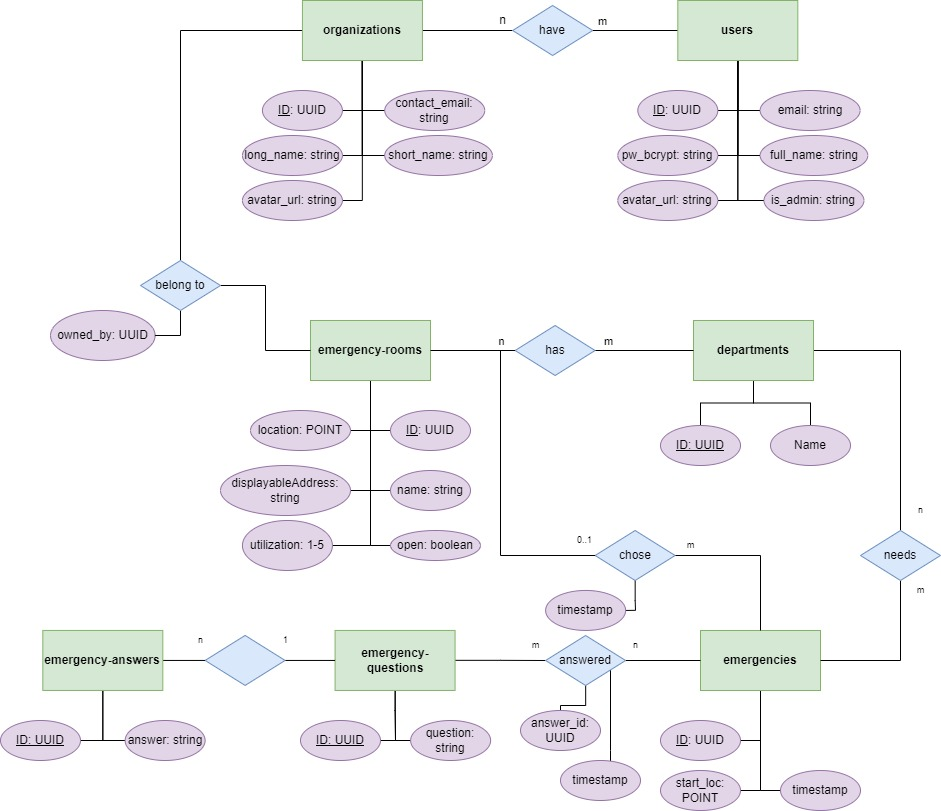
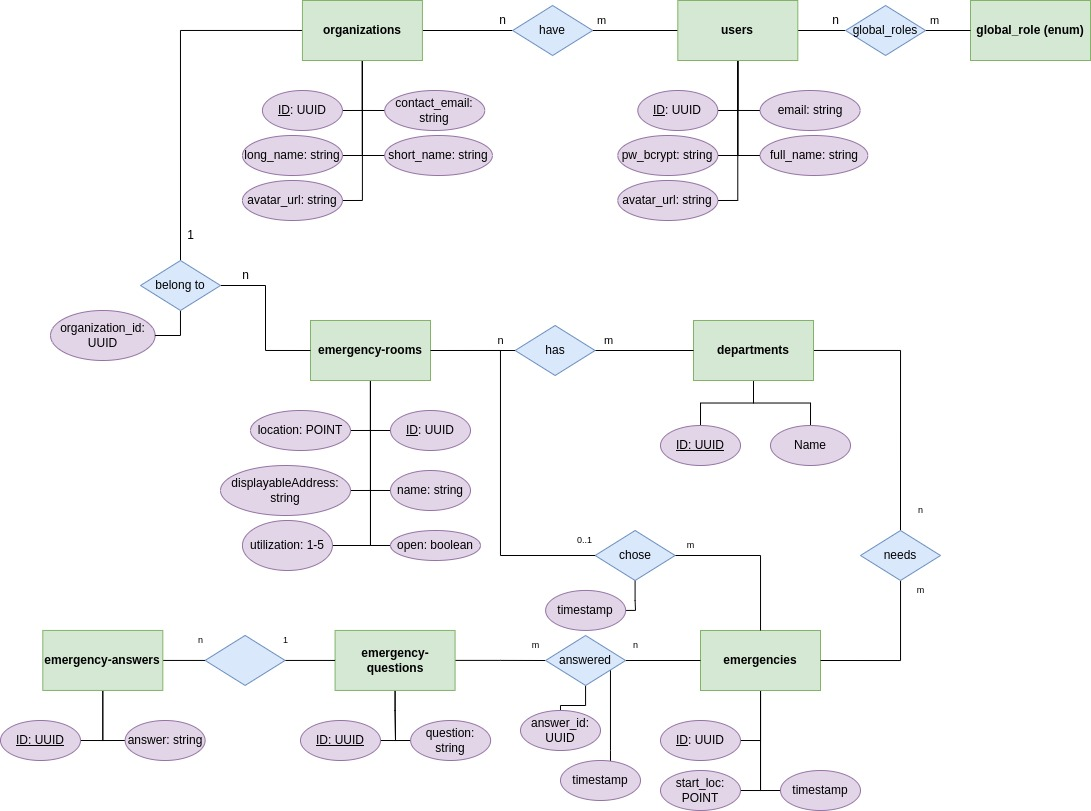
feat: add roles relation

diff --git a/rest-api/Entity Relationship Diagram.md b/rest-api/Entity Relationship Diagram.md
@@ -4,4 +4,4 @@
 
 Version: 16.10.2022
 
-[url]: https://viewer.diagrams.net/?tags=%7B%7D&highlight=0000ff&edit=_blank&layers=1&nav=1#R7V1bl6K4Fv41PuoiNy6P1VU9c3pOdU%2Bv1dMzp59qoaSUOUgcwLLsXz%2BhAAUSS7xAglovJQFBvm9nZ9%2BSDND9%2FPXXyF3MPjOPBgNoeK8D9DCAEBoA8n9pyzprARbBWcs08r28bdvwzf9J80Yjb136Ho0rFyaMBYm%2FqDZOWBjSSVJpc6OIraqXPbOg%2BtSFO6VCw7eJG4itf%2FleMstabWht2%2F9D%2FemseDIwnezM3C0uzt8knrkeW5Wa0McBuo8YS7JP89d7GqToFbhk3%2Ftlx9nND4tomDT5wv2f3%2Bhv7p%2B%2B93n%2B8gf4%2BXj3D%2FnvEOW%2FLVkXL0w9%2Fv75IYuSGZuy0A0%2Bbls%2FRGwZejS9q8GPttc8MrbgjYA3%2Fk2TZJ2T6S4TxptmyTzIz9LQu0up4YchC2nW8osfBPkt%2BQtF6%2F%2BVD36kByNSHD68lk8%2BrPMjEZEcpJgtowl9B4ZCstxoSpN3rsulOcWo9IAc718pm1P%2Be%2FgFEQ3cxH%2BpypCbi%2BJ0c92WLf4hJ%2BwA8oga8nJywGHk7CO9ffKwVuRZN%2FIOIc%2FUijwAlLJ3oF5Uz14xmutCH7zRdwh9jl7s5brgxQ2W%2BaNCKZ%2BP7piboxUO3MCfhvzzhGNFI97wQqPE5%2BbeXX5i7nteRjeN%2FZ%2Fu%2BO1%2BKcoL5ofJ26uQDwPyIMX9XWFLn0RfZUZr%2FpSKXVjBNf%2BWMYLAzrnI7en83o2Bz%2B%2F9NX2Z7Y2BXbnp0K7egD0%2Fx1w%2B6rxtfuDxVEK7Tx3xmYVJflNHi35ZeCHdd0x8v%2F549%2FK4%2Bvr76od19%2BHL5PP6y1DtoNiKSVNDtmU6nRPZe%2Fsqfyt3XbogV1zvdH6j0vsJIjVJyO541o4PBBU%2BgGbAwfkw5h%2Bm6Qc6pxyvcLIech95Hhfn%2BeM2lwjyVpWm1cxP6LeF%2B0bOKnIXVcl55mTfs4BFb99FHqG2h3l7nETs%2F7R0xoZjZJrv9WhBt%2B%2FU4QBW0UaFabTaRhc218xKkQXTaGk4hQIVoTvnn%2B7eoI38cCp26yDwFzE9GGIKOMiWDGLHtJB7JoihUYUYmyLEtgRh3BbCWEA4YBPeo1mYofz1909f%2FugZyGYNY0MixkaXIItGoefHi8Bdp9bVnedxey7usVCjGt6EiHgjCd6kNbyVjPadmWB2wzHb1MuzNZUEdPVjRa9Arak22Fcyhn9UbGHFbk5jNvUK%2Ftn7bVePcjySOX0zvC%2FCbiUG0sxuBVrmro7vDU7D3mBr1RmAJfSGuZQXTYJxaIfgHxyMGxoj0ywU%2B4nxt8JDKOJvoNZn2gvAOQJ7MzcW1dOMzcfL%2BHDV5FL7eSJTTebEpuPnM5nGEI%2BKAX%2BjnUTzWObytWYdFwxKBollMQp8eiiNDZvWzEf5%2Fv3Tg9iNtPZQBLdb4hJ26nZDUTWxBc197jFjAXUleYNeYUygiLEjwRi1hrGoQJaJH3BlvQ1vAFmhgtYwEzBykLH9A1XQJaaPDPTWlAs21Vg%2BxwXaO3MnUFN%2FAumVz8Rqk2C9pxMjregEhiLHRPOkZmM%2BgaFX9AY1cPiLZJVPL8bhB1VTw5SYGt06%2FEi0NS7dpsZWlQRLYnp0alNbUIVuO1BHdV8%2FjJum%2BC1wbtUmjygg5IwcgAGwTC5DxKlasKbBzzq2DRGBDi4KlIq7Zy%2BR3%2FD8IQerV2XLnQ2PzUXo7HXMR5WNQINUVZNRm36w73pk1KSrhTKTwi27mWLHyRomlyFrOspmQUKzGqh%2FljROQyqXYl4CjEfEcrZ%2F1RJUE%2FARCis2OAvHssRQzLtM8hSwSX8rdwSbUnl5FBFgLqS9xwU7abl2YVnpYr0XTJeQ%2FpLW%2BvULWVIrWMUNkz3twQp3avKyY1pyQiUuar84qCsR9Rzcgqjvlc7sj4mfvazgKEvPqkedSAeWmCmZUESp17c8uFnrk7LkYKdJcFMM2Im1IfzlkkFrZSFpl42zjgYE%2FPO%2BViaraKr2zzOQY4Gqi0EskRxZ%2FS5sLZIn2gJiNvxKycGOanIuu4zXahp%2FOP%2BodBItjpI6Xv1ocfRaSgEUBRrXzstmxo1iKw7XJrlZ%2BP34257r27H6ClRLA6AbxisacZnol%2BGHCKmHGkyouADSEie9XbpPDGq%2Bi%2FJwT%2FGwW%2FajCgtsqE5tvQqL7F7Nr9eQTr2sFgfeeucpdBY1DZrQWfzuZum8zNK4lGTeEGBrVER7dMrg2WIGL0O%2Bx4mloUlGqJotVW9pXJ%2B1NwSOZuaec9lBI6epF4z1Ghgc0c8UVbzW%2FiVI59eVpsPUqmVMiGWavlN30xEVUKbon9Kv9bT6F9UW%2FbBUz6hzxEqNq80ZDOudQHHKwBGTmKK%2FeCXc1ApEdpii3dIjTiK52lxoXa%2FJgpXdkiMmqq9Wr2HdyNkkNUrsJP6cxok7X%2FRtRK%2FXXhLFI%2Fpmrt0FgEvqDpnqwlZgKJnq0t0ytUY%2BqPYtjw%2BM2wz60whtZxrboXlmVMu4EVxZunbv9aiLPPMmLXgTtmOFzTj7gg3HlTXgWg2fs6es4cTrTaML8TTE0MlkxmJxVoDeQSpsCKtAKS%2BABYa4BJExGl2tX44svJcg3K1vcXPLtz3IlvQg5c6f6Jr31T%2BRlGkRSxqZastLke7aIDqAbBVS72m8Vhk4lyzQKID%2FTm4uXf6gPLvUrNp90tXK8YjY7QwOUtwvcAOwQ3fLkOIisQql1xG5CHSz1Umv9q3RkDxTJXmKd2%2Frf9fLPFpl9MFb5zuJPkcpe%2FjW%2BU7rfEglfcWCr9dG315asq3sTg1JiTEh2xqZdsmSrXrQdccrk7JzrN0lfUmkdu2u%2Fqvek6XkpM6L1UaiD9yHREP6kFr6BnVPXagwZ9HUDfPVtzWqLj%2FJmwcgXY67ovaGXe4%2Bstv77NtapCfRYAks2N3l13c7kdXEBQsTd5I80bnrB2pr%2FE8TeQeP%2BB23f2Qf8K1ttrfbg6gujDbjI8OT%2Bp0j24QdSKLhwNjOfOkEesnOIgELp32HngjaRY52l1IOJLOHXlxuJDwtoz5rFwnWktVoOsa6V6sCH2ma7rVDCxNmvx%2FRnPSOwjpqK6q68QzPyB%2FUjb9rSEedkT%2BsG3%2FXkJE6I39IN%2F6uIa56Rv6IZvxBxVv8ahsZbU6p0pwwFN0qIbi2jLVasuEkHyDNKyBQmtNbrZBRH2Db1FddT4QN45STCg%2BqQ2yFnVpioe%2BxNWI6IxOUgjz7AO%2FWEYZi0OF5GQS9j%2B%2B8i7oWkTUo5lcWq6fxJFovkh4jj6GgVdSH1qCYP7mI0JoMbOWxNSgmSvz4yfXmvuINNk7TKBYaYbJrAxkNUBenFszcFwXTak5CGUE4qq2OPRSVR1uzauRJeFFPi3M2Ut%2Fl0R3TYNDaxI2d6E5YGNJJkn95sCnSOUCNAGPkQHPzh6pVP6A1aCU7IQjQajkd5gyiDh1rZOCd2T%2BJ2Mumwpxjq3V59YfaqmV9IwzNNxaW099R8Q5UQ1%2FDrVIPDAC2TN%2FuiUqq6JNsAs0HF5ZaTQYHvV%2BD%2BrAYm4sq0obLkBwxpPPDiLGkXIbKMZh9Zl46NH%2F8Fw%3D%3D
+[url]: https://viewer.diagrams.net/?tags=%7B%7D&highlight=0000ff&edit=_blank&layers=1&nav=1#R7V1bc6M4Fv41qdp9MIUu3B7TSc9sz6YzXZWZ3u2nFDGKzS5GHsBJ3L9%2BRIxsQLKNY0DCdl5iZMzl%2B46Ozk3SFbqZvf2a%2BPPpVxqQ6AqawdsVur2CEDi2x%2F7lLcuixUZg1TJJwqBo2zQ8hD9J0WgWrYswIGnlxIzSKAvn1cYxjWMyziptfpLQ1%2BppzzSq3nXuT4jQ8DD2I7H1P2GQTVetLnQ27f8i4WTK7wz4G898fnLxJunUD%2BhrqQl9vkI3CaXZ6tPs7YZEOXocl9Xvftny7frBEhJnTX5w8%2F2B%2FOZ%2FD4Ovs5c%2FwM%2B767%2Bsf49Q8WzZkr8wCdj7F4c0yaZ0QmM%2F%2Brxp%2FZTQRRyQ%2FKomO9qcc0fpnDUC1vg%2FkmXLgkx%2FkVHWNM1mUfEtiYPrnBp2GNOYrFp%2BCaOouCR7oWT53%2FLBj%2FzAsPjh7Vv5y9tlcSQiUoCU0kUyJjtg4JLlJxOS7TgPrs7LMSrdoMD7V0JnhD0POyEhkZ%2BFL1UZ8gtRnKzP27DFPhSEHUCepYa8ghxwGDn7SO%2BePKwVec6FvEPIs7UiDwCl7B2oF9Wzx0dzXeiDF%2FoOoc%2FTi71CF7z40aK4VSzl885%2FYuZohQM%2FCicx%2BzxmWJGENbyQJAuZuXddfDELg2BFN0nDn%2F7T%2B%2FVylOc0jLP3V7E%2BXVm3Utx3Clt%2BJ%2FJWgaYwWou7VOzCCq7Fr0wDArfgorCni2s3Br649rf8ZTYXBm7loiO3egH6%2FJwy%2Bajztn7Aj1MJ3SF1xGcaZ8VFPS36JfdC%2Bu%2BY%2BGb5%2Bfrl7vXb768%2FnOtP9%2BOvy%2FuR2kFxcCYNbF2tvv%2BUvZW%2FLJ1QKK4dnd%2Bs9H4LWTVJWF2x1Y4PBBV%2BBe2IofXpiX2Y5B%2FIjDAA4%2FFyxHzkWcq%2FZ7dbnyLIW1WaXqdhRh7m%2Fjtbr4k%2Fr0rOMyP7hkY0ef8tCiziBpi1p1lC%2F09K37jwCdn2LpkQdPtWHQ5gFW3ETaPXTXRhfc60FFmwzY6GUyhQEfsz9un6HdokjCdit46icJ6SgyEmgIHsyCD2bAf5LUEMzSrE2BYhdiUI464QxgLCER2zHk3jFcrffv9y%2F8fAQLZrGJsSMTb7BFk0CoMwnUf%2BMreuroOA2XPpgIUa1fC2LBFvJMHb6gxvJaN9byaY23AQt%2FXybG0lAV39WNErUGurDfaVjOEfFVtYsZvTmE29gn%2Fufts1IAyPbEbeDe%2BTsFstE2lmtwItc1cf7w1ew97gatUZgCP0hpmUF02CcWiL4B8cjBuZhm1zxX5k%2FI17CDz%2BBmp9prsAnCewN%2FVTUT1N6expkR6umnziPo9lqskeu%2BTpuSXTGGKDD%2Fhr7SSaxzKXrzPrmDMoGSQWfBT4clsaG9atKx%2Flzz%2B%2F3IrdSGsPRXC7JS5hr243FFUTnZPC536iNCK%2BJG8wKIwtKGLsSTBGnWEsKpBFFkZMWW%2FCG0BWqKA1zBYwPGRu%2FkAVdInpIwO9M%2BWCbTWWz8cC7b25E6ipP4H0ymditUmwwdOJkVZ0AlORY6J5UrMxn8DUK3qDGjj8PFkVkpNx%2BEHV1LAlpka%2FDj8SbY1Tt6mxUyXBkZgevdrUDlSh2w7UUf3XD%2BOmOX8HtK3a5BEFhDzDAxgAx2YyZHlVC9Y22bee60JkQQ%2FzAiV%2B9dVLFBdsP%2BTgDKpsubfhsbkItV7H%2FKGyEWhaVdVk1qYf7DsfmTXp6qDMhLtlF1PsY7KGrdOQNR1lk5PQrAbqrwVJ85DKqZiXAGPDcrzNX7UE1QZshMKKDU7uWJYYSlmXyR4jOh5u5Y5gUyovj7IEmLm0D7hgJy%2FX5paVLtY7Z7qE9H1e6zcsZK1awSpumOzpDla4VZOXHdOSEypxUYfFQV2JqOfgEkTdVTqzPybeelnBhyw9px51snqwxGzJhCJCgqHlwe1an5QlB3tNgttiwE6sDWEvl111VhaSd9l01dGAgH%2FR18pk8aZq%2F2yBHAdUXQzLEcmR1e%2FCziJ5oi0gZsPPlBzsqSbntMt4nabxh%2FZHpaNo8ZTU8epHi6fXUgqAF2icOy%2FrGTeKrThcm%2BTm4N3xtz3nd2P1cVRLA6Afp68kYTIxLMMPWVY91GBDxQWQjjjp7dR9YlDzXZSHe%2FjNLtmPKiywoTp19Soscgc1v15DOvWyWjx46Z3H0MlrGjShkz93s3TeytI4lWTeCGDH4NEenTJ4rpjBWyE%2F4MTSyLYMVM2Wqrc0zs%2FaGwFPM3PPO%2B2gkdfUC8Z6DQye6GeKKl5r%2FxLk8%2BtK02Fq1TI2xDJN36u76YkKaKXoH%2FOfDbT6F9UW%2FXBUz6jzxEqNs80ZjOqdQHHKwBOTmKK%2FeCbc1ApEtpii%2FdIjTiI521xoXa%2FJgpX9kiMmqs9Wr2HdyFknNUrsZOGMpJk%2Fmw9tRK%2FXXlqKR%2FT1XLsTANeqO2SqC1uBqWSqS3%2FL1JrFoDq0PD4wLzPojyO0m2lsh%2BaZUS3jZuHK0rV7z0d95JnXacGLsH1U2Ew9VkrGuFbD5%2B0pazjyfNvsQzxNMXQyntJUnBWgd5AKm8IqUMoLYIEpLkFkGsbZ%2BuXIwXsJwv36Fhe3fNODXEkPUu78ia75UP0TSZmW5UgjU115KdJdG0QHkCYTPy6W8Bpy%2FHwE8lUQypNM7ar5J120HBuW280YIYX%2F%2FPYBk8IgsQWl57U%2BIf0o8ga1fY168pSt4yzfrmZQ9XTq2VO3iZv8ceCl8x1Cn7JFD%2BXs4UvnO6jzKatFlhuN3lnQt5cW2M20aTE05DqG7ZYs2aojXfe%2FVmLXxhJe0rdGapfwGpzqbV9Kjuq8WG1A%2BsDtSNTTpy57teuxdxWalz34UykyByBflbui9kZ9bkKyyx09oyVJHYEFt780%2By6vspy%2FoHHmj7NHMvPDaMCl%2FsDDBrvi5s%2FaB3xne%2B7tcinK66NN2cjwOPANJPfADiRBcWBuJsD0Ar1kg5GIxpOhQ28J2kWOdp9SDiSTiF58ZjU8LpIhaxcJ1pJFaXrGelCLA3dnmnIjZr9roWyyi5w%2FtYVV2niGzfmDevF3SUcdyJ%2BySeVy%2Fi4ZqQP50yuuCs4jrtoif8oSwndvI9e6%2F%2F4Qm9kjze6%2B3ca%2F3arK5jehoYZQe7xIgcAqexEUnSMhRLZIT2f9hTw7gEBpgm61zkV9mGz9SucTJ8M456TCg%2BpAGbc1SywMPUJm2Z5hg1KoZh%2Fg%2FbqzUAwdPC%2BiaPBRmp2oaxEfg2KWZP76%2BDROlvNswMhjKGgV9QEyKGZBTiJAJgNbeYQMihXrU%2F9laLM1EIRGbdHlkSjGXU3WkGd5RY2hyU7229A9eM96DEzDg%2Fb6D1WrSOrbzrcHrWSBfQFaLWdZtCDq0HMME2%2FNJknEXjbDoo0dvOXVBGqrYLWJGDXfnvZKp4ARhmroa7gD54EBpXbp2zXdRRP6JHsLs8GF5qaSyUAf1qA%2B4mMzr0psuLpFG0O6NAglRh0GNexIBnyBn%2B0WllefzCejo6uhRkqHGH4YyEzYFugYAWHVTigJy%2FXKhxicEKKkk4g%2B%2BdFjQhmo0PwHiRezf%2BoTND2KEae2SlivUVIpH4pyd10kD7bnBBrkDlBPI%2FKuhyx1ilIfULAl2FEybudTjqtS3p%2BXLYVXDBUpdLIbe9QH6RWMDNcpOdkV%2FNvwsaXADtzFPk7Ma2vWdedTs8OE0qw8nYb19OlXGuTS%2Bvlv
